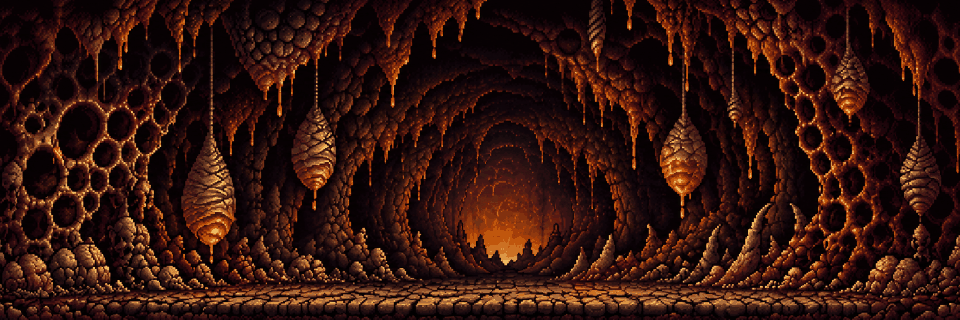
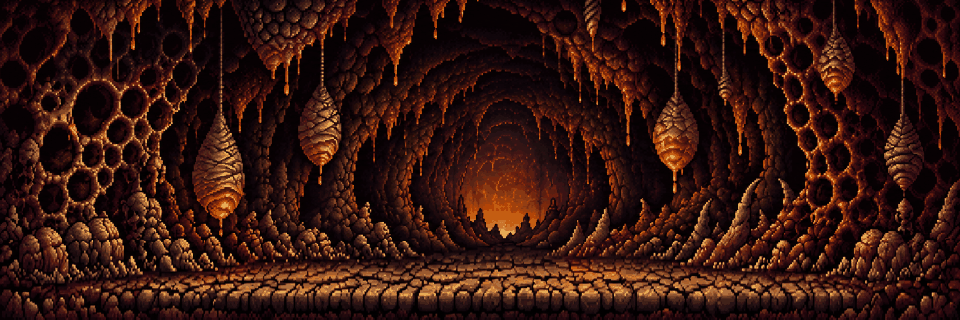
fix(ui): fighters stand on the floor in swamp, hive and ship
The fighters occupy the band 38-64 px above the bottom of the 320 px
field (the hero's feet at 38, an enemy's at 64), so the floor has to
start above that - around 75. Forest, crypt and caves came out that way;
in the other three the generator drew a band half as tall, ending right
at the boots.

There was nowhere to move the frame (a master is already 3:1, with ~5 px
of slack) and zooming to a 75 px floor would cost half the scene, so
location-bg.py grows the floor instead: --ground says where the band
starts today, the bottom strip is stretched down to 75 px and the same
amount is cut off the top. The stretch is 1.7-1.9x and reads fine
because the near rows of planks and stone are the largest anyway; the
cost is the top 9-11% of the master. The wide frame is now anchored to
the bottom rather than splitting the excess: floor beats sky.

diff --git a/docs/GDD.md b/docs/GDD.md
@@ -870,7 +870,7 @@ ATK = урон оружия + STR. Дальность приёма по цели
 
 ## 13. Статус
 
-v0.41.2: **рисованные фоны у остальных пяти локаций.** Болота, Склеп, Осквернённый улей, Пещеры огня и Пиратский корабль сделаны по формату Леса из v0.41.1: мастер генератора в `art/<локация>-bg.png`, два кадра 960×320 в `src/assets/backgrounds/`. Приближение для хабов выбрано по тому, что в сцене читается крупно: у Болот — настил с крестом-пугалом, у Склепа — ниша со статуей и свечами (сцена симметричная, кусок по центру), у Улья — коконы у светящегося зева, у Пещер — лавопад, у Корабля — флаг, луна и палуба с пушками. Процедурные `DRAWERS` удалены целиком (лежат в истории): арт теперь у всех шести локаций, а `BACKGROUNDS` — обязательный `Record`, так что новая локация без своего фона просто не соберётся. В `tools/location-bg.py` добавлены две вещи, которых не потребовал Лес: **обрезка чёрных кромок** — у трёх мастеров генератор оставил сверху или снизу полосу в 10–35 px, и под ногами бойцов это была бы чёрная лента; **кадр 3:1 берётся по центру**, а не подгонкой одной высоты — после обрезки пропорция мастера уходит от 3:1 на 3–5 %, и кладка Склепа сжималась бы по горизонтали. Открытый вопрос: затемнение хабов 0.78 подбиралось под процедурные фоны, и у тёмных мастеров (Склеп) под ним от рисованного фона почти ничего не остаётся — 0.65 держит текст так же уверенно и на самом ярком мастере (Пещеры), но это решение пользователя, в коде прежние числа. Баланс не менялся, бот не гонялся.
+v0.41.2: **рисованные фоны у остальных пяти локаций.** Болота, Склеп, Осквернённый улей, Пещеры огня и Пиратский корабль сделаны по формату Леса из v0.41.1: мастер генератора в `art/<локация>-bg.png`, два кадра 960×320 в `src/assets/backgrounds/`. Приближение для хабов выбрано по тому, что в сцене читается крупно: у Болот — настил с крестом-пугалом, у Склепа — ниша со статуей и свечами (сцена симметричная, кусок по центру), у Улья — коконы у светящегося зева, у Пещер — лавопад, у Корабля — флаг, луна и палуба с пушками. Процедурные `DRAWERS` удалены целиком (лежат в истории): арт теперь у всех шести локаций, а `BACKGROUNDS` — обязательный `Record`, так что новая локация без своего фона просто не соберётся. В `tools/location-bg.py` добавлены две вещи, которых не потребовал Лес: **обрезка чёрных кромок** — у трёх мастеров генератор оставил сверху или снизу полосу в 10–35 px, и под ногами бойцов это была бы чёрная лента; **кадр 3:1 берётся по центру**, а не подгонкой одной высоты — после обрезки пропорция мастера уходит от 3:1 на 3–5 %, и кладка Склепа сжималась бы по горизонтали. **Третья — наращивание полосы пола** (`--ground`, по замечанию пользователя «перс стоит не на полу»): бойцы стоят в полосе 38–64 px над низом кадра (ступни героя 38, врага 64), поэтому пол должен начинаться выше — у Леса, Склепа и Пещер он и начинается на ~75, а Болотам, Улью и Кораблю генератор дал полосу вдвое уже, ровно по ботинки. Подвинуть кадр было некуда (мастер и так 3:1, запас по высоте — 5 px), зумом до нужной полосы пришлось бы увеличивать вдвое и терять полсцены, поэтому нижняя полоса растягивается вниз до 75 px, а сверху срезается ровно столько же: сцена остаётся на месте, уходят верхние 9–11 % мастера (у Корабля — верхушки мачт). Растяжение в 1.7–1.9 раза по перспективе незаметно — ближние ряды досок и камня и так самые крупные. Кадр `wide` заодно стал прижиматься к низу, а не делить лишнее поровну: пол в кадре важнее неба. Открытый вопрос: затемнение хабов 0.78 подбиралось под процедурные фоны, и у тёмных мастеров (Склеп) под ним от рисованного фона почти ничего не остаётся — 0.65 держит текст так же уверенно и на самом ярком мастере (Пещеры), но это решение пользователя, в коде прежние числа. Баланс не менялся, бот не гонялся.
 
 v0.41.1: **рисованный фон Леса.** Первая локация получила нарисованный фон вместо процедурного: ночной лес с тропой из брусчатки, фонарём у ограды и замком на холме под луной. Мастер генератора (2157×729) лежит в `art/forest-bg.png`, кадры режет `tools/location-bg.py` в `src/assets/backgrounds/forest-<вариант>.png`, подключает их `PAINTED` в backgrounds.ts — процедурные `DRAWERS` никуда не делись и рисуют пять остальных локаций. Оба кадра — **960×320**, ровно тот прямоугольник, в который кадр забега кладёт и поле боя, и хаб: в логическом кадре это 1:1, на FullHD ровно ×2, поэтому `image-rendering: pixelated` нигде не пересчитывает пиксели и фон остаётся таким же чётким, как спрайты героев. Разница между вариантами не в пропорции, а в приближении: `wide` — вся сцена под поле боя (герой и враги встают на брусчатку внизу кадра), `tall` — кусок в 1.6 раза крупнее, взятый по земле и по фонарю, под карту и хабы; процедурный `tall` рисуется в 240×184 и на хабе всё равно обрезается по центру, так что ведёт себя фон по-прежнему, только теперь этот кусок выбран, а не получился. Мастер уменьшается усреднением без сглаживания и квантуется в 128 цветов: на глаз это не отличается от полного цвета, а файл выходит 200 КБ вместо 590. Затемнение поверх фона прежнее — 0.3 в бою, 0.6 на карте, 0.78 на хабах. Баланс не менялся, бот не гонялся.
 

diff --git a/CLAUDE.md b/CLAUDE.md
@@ -70,7 +70,7 @@ src/main.ts   монтирование, масштаб кадра 960×540, ра
 src/style.css один файл, секции /* ─── … */
 tests/        vitest; sim/bot.ts — умный бот (W — веса оценки, planTurn, playRun, chooseReward; chooseFocus — пул награды по сокетам и тиру предмета, вес W.focusSocket)
 tools/hero-sheet.py         сборка листа героя из картинки генератора (numpy, Pillow, scipy): `python tools/hero-sheet.py art/knight.png --hero warrior --clips idle,battle,slash,thrust,block,hurt,death` или `--heroes ,mage,... --clip idle` (пустое имя — пропустить ряд). Сырой лист НЕ резать по сетке руками; исходники — в art/
-tools/location-bg.py        два кадра фона локации из мастера генератора (Pillow): `python tools/location-bg.py art/forest-bg.png --loc forest --zoom 1.6 --center 0.36` — wide (вся сцена, поле боя) и tall (кусок покрупнее по земле, карта и хабы), оба 960×320: в логическом кадре 1:1, на FullHD ×2, pixelated ничего не пересчитывает. Сам срезает чёрные кромки генератора и берёт кадр 3:1 по центру; зумы и центры всех шести локаций — в docs/art.md
+tools/location-bg.py        два кадра фона локации из мастера генератора (Pillow): `python tools/location-bg.py art/forest-bg.png --loc forest --zoom 1.6 --center 0.36` — wide (вся сцена, поле боя) и tall (кусок покрупнее по земле, карта и хабы), оба 960×320: в логическом кадре 1:1, на FullHD ×2, pixelated ничего не пересчитывает. Сам срезает чёрные кромки генератора и берёт кадр 3:1 от низа; `--ground <px>` дотягивает низкую полосу пола до 75 px (бойцы стоят на 38 и 64 px над низом кадра) — растягивает нижнюю полосу вниз и срезает сверху столько же; зумы, центры и --ground всех шести локаций — в docs/art.md
 tools/apps-script/Code.gs   приёмник статистики: отдельный проект с SPREADSHEET_ID (таблица «Monster Versus Metrics» в Drive пользователя), лист runs, колонки по ключам записи (новый ключ — новая колонка справа); GET ?data=runs отдаёт последние 2000 без отладочных и без player/detail
 ```
 
